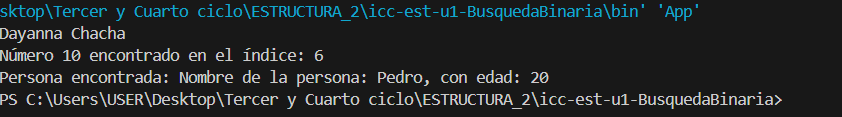
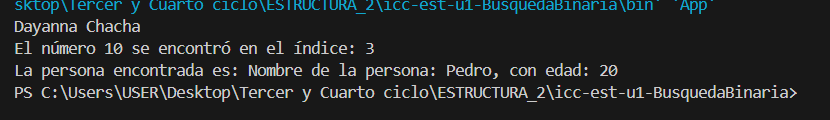
Terminado

Changed region(s): [[0.0, 0.0, 0.9639, 0.9231], [0.6024, 0.9231, 0.6325, 0.9487]]

diff --git a/src/App.java b/src/App.java
@@ -10,7 +10,7 @@ public class App {
         ShowConsole showConsole = new ShowConsole();
         BusquedaBinaria busquedaBinaria = new BusquedaBinaria();
 
-        int [] num = new int[]{10, 15, 25, 8, 5, 7, 9};
+        int [] num = new int[]{15, 25, 8, 10, 5, 7, 9};
         Integer resultado = busquedaBinaria.busquedaBinaria(num, 10);
         showConsole.showResult(resultado, 10);
 
